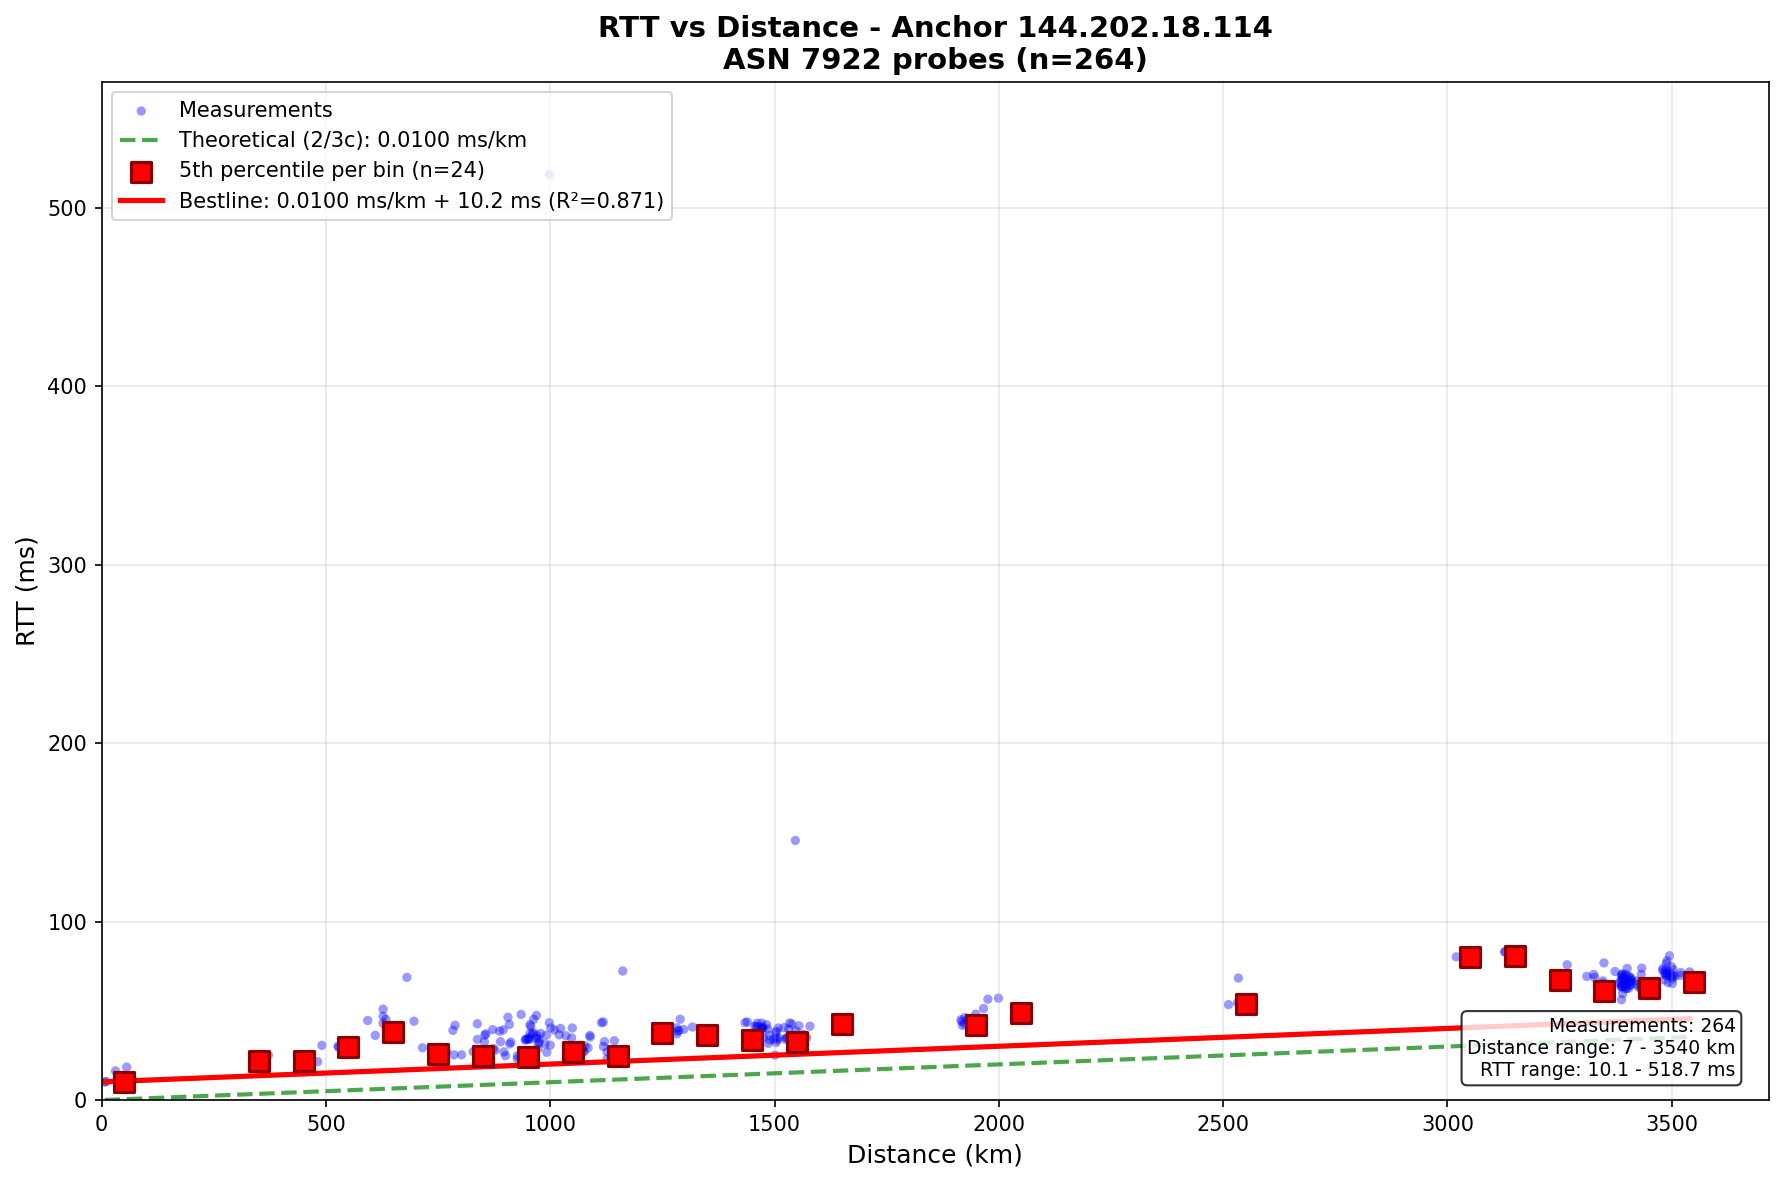
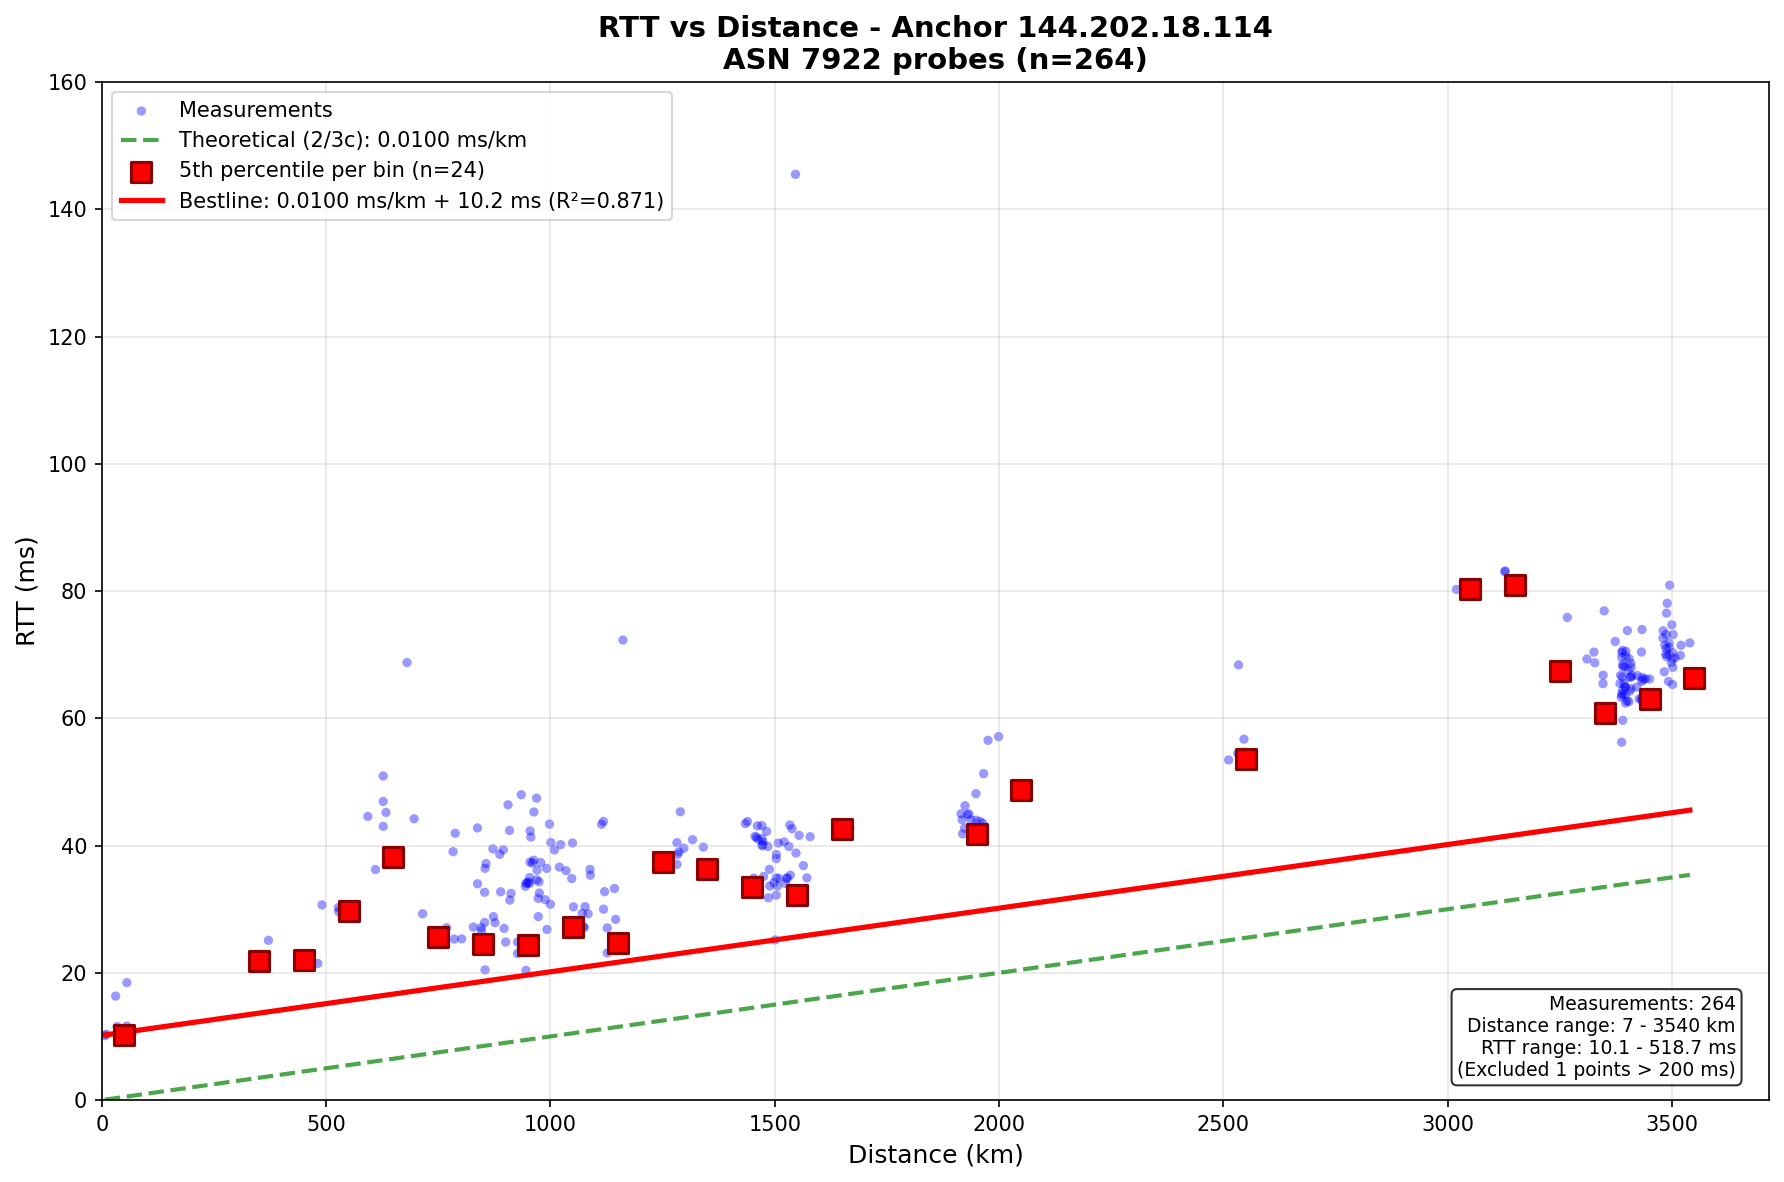
feat: add max RTT filter for scatter plot visualization
- Add max_rtt_ms parameter to plot_scatter_with_bestline() (default 200ms)
- Filter out data points above threshold for cleaner visualization
- Add --max-rtt CLI argument to fit_models.py
- Show count of excluded points in stats box

🤖 Generated with [Claude Code](https://claude.com/claude-code)

diff --git a/scripts/analysis/cbg_feasibility/fit_models.py b/scripts/analysis/cbg_feasibility/fit_models.py
@@ -117,16 +117,20 @@ def plot_scatter_with_bestline(
     model: RTTDistanceModel,
     output_path: Path,
     asn: int,
-    show_theoretical: bool = True
+    show_theoretical: bool = True,
+    max_rtt_ms: float = 200.0
 ) -> None:
     """
     Create scatter plot of RTT vs distance with bestline overlay.
 
     Shows:
-    - All data points as scatter
+    - All data points as scatter (filtered by max_rtt_ms)
     - Binned percentile points used for fitting
     - Fitted bestline
     - Theoretical 2/3c baseline for comparison
+
+    Args:
+        max_rtt_ms: Maximum RTT to display (default 200ms). Points above this are excluded.
     """
     # Filter to this anchor
     anchor_data = df[df['dst_ip'] == model.anchor_ip].copy()
@@ -138,11 +142,17 @@ def plot_scatter_with_bestline(
     distances = anchor_data['distance_km'].values
     rtts = anchor_data['min_rtt'].values
 
+    # Filter out RTTs larger than max_rtt_ms for plotting
+    plot_mask = rtts <= max_rtt_ms
+    plot_distances = distances[plot_mask]
+    plot_rtts = rtts[plot_mask]
+    n_excluded = len(rtts) - len(plot_rtts)
+
     # Create figure
     fig, ax = plt.subplots(figsize=(12, 8))
 
-    # Plot all data points
-    ax.scatter(distances, rtts, alpha=0.4, s=20, c='blue', label='Measurements', edgecolors='none')
+    # Plot filtered data points
+    ax.scatter(plot_distances, plot_rtts, alpha=0.4, s=20, c='blue', label='Measurements', edgecolors='none')
 
     # Plot range for lines
     dist_min, dist_max = distances.min(), distances.max()
@@ -155,8 +165,11 @@ def plot_scatter_with_bestline(
                 label=f'Theoretical (2/3c): {THEORETICAL_SLOPE:.4f} ms/km')
 
     if model.fitted:
-        # Plot bin centers and percentile RTTs
-        ax.scatter(model.bin_centers, model.bin_rtts, s=100, c='red', marker='s',
+        # Plot bin centers and percentile RTTs (only those within range)
+        bin_mask = np.array(model.bin_rtts) <= max_rtt_ms
+        bin_centers_plot = np.array(model.bin_centers)[bin_mask]
+        bin_rtts_plot = np.array(model.bin_rtts)[bin_mask]
+        ax.scatter(bin_centers_plot, bin_rtts_plot, s=100, c='red', marker='s',
                    edgecolors='darkred', linewidth=1.5, zorder=5,
                    label=f'5th percentile per bin (n={model.n_bins})')
 
@@ -178,7 +191,7 @@ def plot_scatter_with_bestline(
 
     # Set axis limits with some padding
     ax.set_xlim(0, dist_max * 1.05)
-    ax.set_ylim(0, rtts.max() * 1.1)
+    ax.set_ylim(0, min(max_rtt_ms, plot_rtts.max() * 1.1) if len(plot_rtts) > 0 else max_rtt_ms)
 
     # Add statistics text box
     stats_text = (
@@ -186,6 +199,8 @@ def plot_scatter_with_bestline(
         f"Distance range: {dist_min:.0f} - {dist_max:.0f} km\n"
         f"RTT range: {rtts.min():.1f} - {rtts.max():.1f} ms"
     )
+    if n_excluded > 0:
+        stats_text += f"\n(Excluded {n_excluded} points > {max_rtt_ms:.0f} ms)"
     ax.text(0.98, 0.02, stats_text, transform=ax.transAxes,
             fontsize=9, verticalalignment='bottom', horizontalalignment='right',
             bbox=dict(boxstyle='round', facecolor='white', alpha=0.8))
@@ -202,7 +217,8 @@ def fit_all_anchors(
     output_dir: Path,
     method: str = 'lp',
     bin_size_km: float = 50.0,
-    percentile: float = 0.05
+    percentile: float = 0.05,
+    max_rtt_ms: float = 200.0
 ) -> Dict[str, RTTDistanceModel]:
     """
     Fit models for all anchors and save results.
@@ -214,6 +230,7 @@ def fit_all_anchors(
         method: 'lp' (Linear Programming, original CBG) or 'percentile' (binned percentile)
         bin_size_km: Size of distance bins
         percentile: Percentile for percentile method
+        max_rtt_ms: Maximum RTT to display in plots
 
     Returns:
         dict of anchor_ip -> RTTDistanceModel
@@ -273,7 +290,7 @@ def fit_all_anchors(
 
         # Generate scatter plot
         plot_path = output_dir / f"scatter_{anchor_ip.replace('.', '_')}.png"
-        plot_scatter_with_bestline(asn_df, model, plot_path, asn)
+        plot_scatter_with_bestline(asn_df, model, plot_path, asn, max_rtt_ms=max_rtt_ms)
 
         # Add to summary
         summary.append(model.to_dict())
@@ -349,6 +366,8 @@ def main():
                         help='Distance bin size in km (default: 100)')
     parser.add_argument('--percentile', type=float, default=0.05,
                         help='Percentile for lower envelope (default: 0.05)')
+    parser.add_argument('--max-rtt', type=float, default=200.0,
+                        help='Maximum RTT to display in plots (default: 200 ms)')
 
     args = parser.parse_args()
 
@@ -370,6 +389,7 @@ def main():
     print(f"Method: {args.method}")
     print(f"Bin size: {args.bin_size} km")
     print(f"Percentile: {args.percentile}")
+    print(f"Max RTT for plots: {args.max_rtt} ms")
     print("=" * 60)
 
     # Load data
@@ -382,7 +402,8 @@ def main():
         output_dir=output_dir,
         method=args.method,
         bin_size_km=args.bin_size,
-        percentile=args.percentile
+        percentile=args.percentile,
+        max_rtt_ms=args.max_rtt
     )
 
     # Print summary